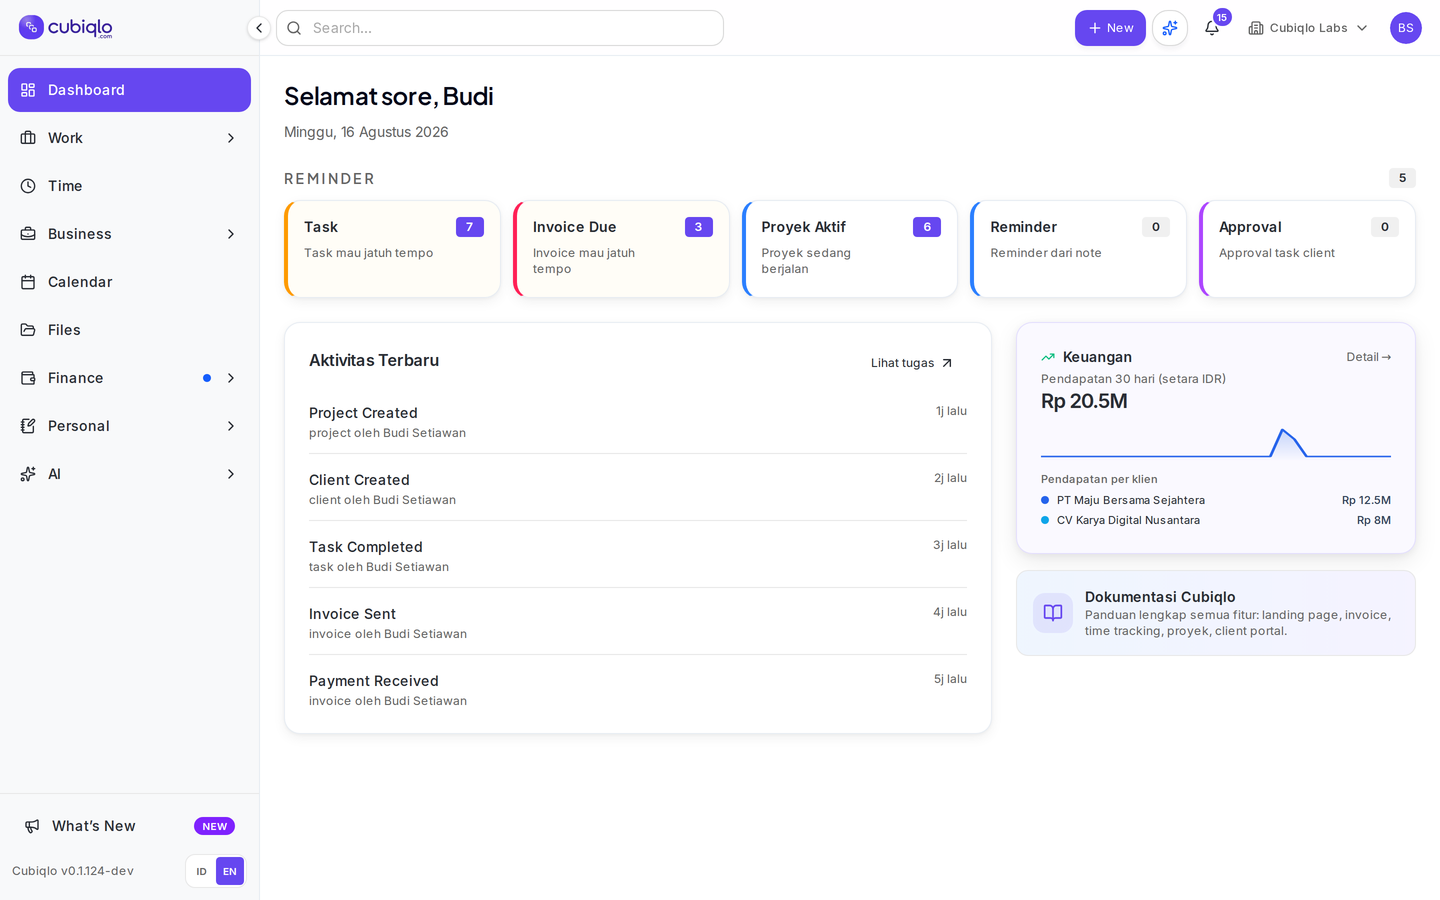
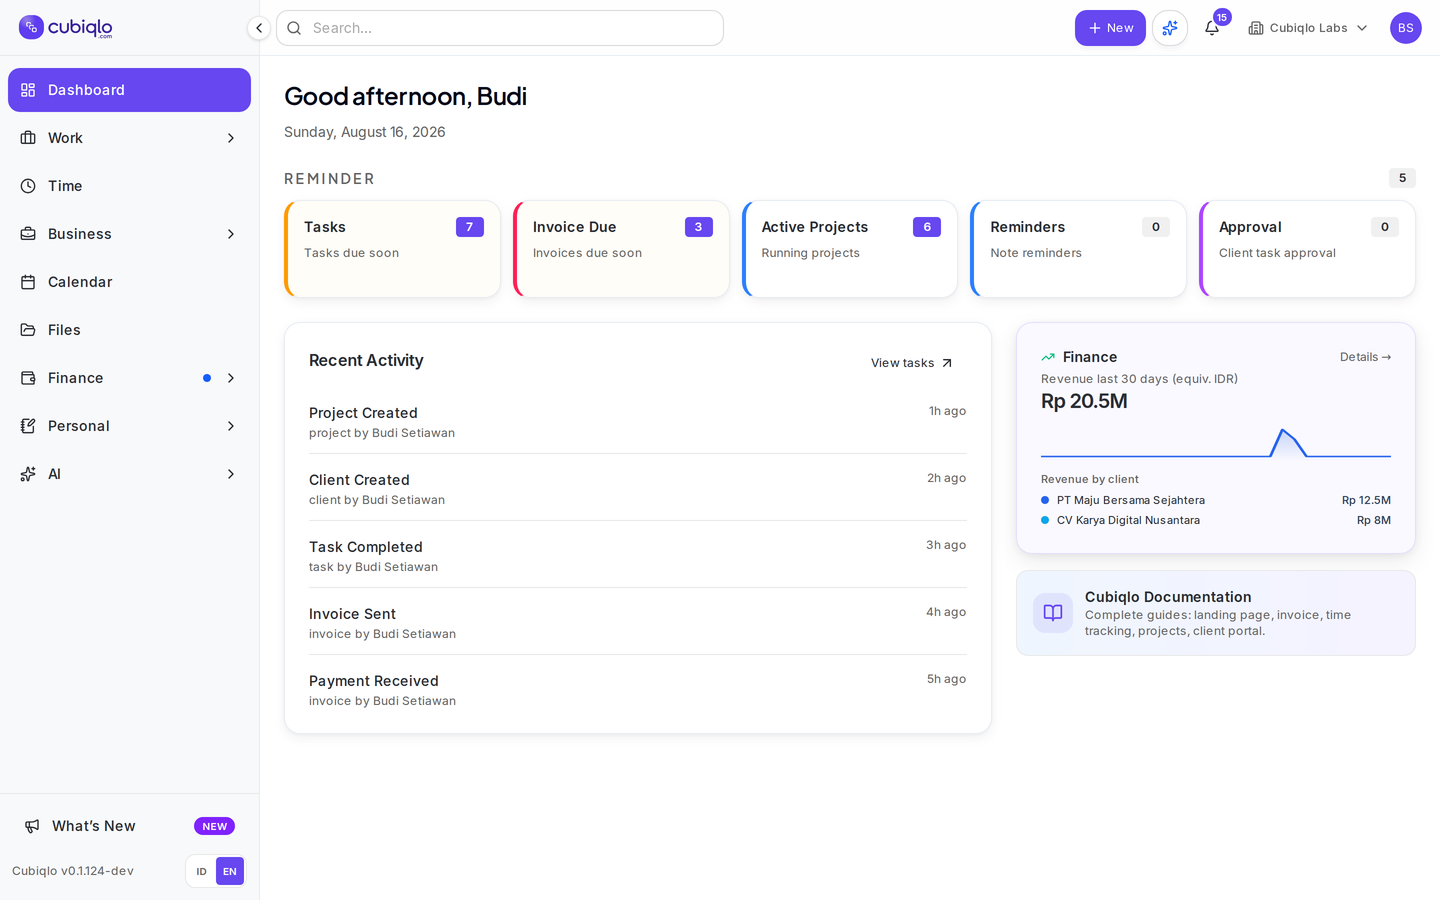
feat(landing): pricing yearly below monthly (no total) + English screenshots
- Pricing: 'Billed yearly' moved below monthly price, remove yearly total
- Screenshots regenerated in English (default lang en): dashboard & tasks
- Dashboard shows Cubiqlo Labs, Budi, Rp 20.5M revenue

diff --git a/src/app/page.tsx b/src/app/page.tsx
@@ -272,7 +272,7 @@ export default async function HomePage() {
         <section id="pricing" className="bg-white px-4 py-20 sm:px-6 sm:py-28 lg:px-8">
           <div className="mx-auto max-w-7xl">
             <div className="mx-auto max-w-3xl text-center"><p className="text-xs font-semibold uppercase tracking-[.2em] text-[#6647F0]">{tx("Harga transparan", "Transparent pricing")}</p><h2 className="mt-4 text-3xl font-semibold tracking-[-.03em] sm:text-5xl">{tx("Mulai gratis. Upgrade saat klien bertambah.", "Start free. Upgrade as your client work grows.")}</h2><p className="mt-5 text-lg text-slate-600">{tx("Tidak perlu kartu kredit untuk mulai.", "No credit card required.")}</p></div>
-            <div className="mt-12 grid gap-5 lg:grid-cols-3">{pricing.map(plan => <div key={plan.name} className={`relative flex flex-col rounded-3xl p-6 ${plan.featured ? "bg-[#292D34] text-white shadow-[0_24px_70px_rgba(41,45,52,.22)] lg:-translate-y-3" : "bg-[#FBFAFE] ring-1 ring-slate-200"}`}>{plan.featured && <span className="absolute right-5 top-5 rounded-full bg-[#FF7657] px-3 py-1 text-xs font-semibold">{tx("Paling populer", "Most popular")}</span>}<p className={`text-sm font-semibold ${plan.featured ? "text-violet-300" : "text-[#6647F0]"}`}>{tx(plan.name, plan.name === "Free" ? "Free" : plan.name)}</p><p className={`mt-3 text-sm ${plan.featured ? "text-slate-300" : "text-slate-600"}`}>{plan.name === "Free" ? tx("Coba dulu untuk client work kecil.", "Try it for small client work.") : plan.name === "Solo" ? tx("Untuk freelancer yang mulai serius.", "For freelancers getting serious.") : tx("Untuk tim kecil yang kerja bareng.", "For small teams working together.")}</p><div className="mt-7 flex items-end gap-2"><strong className="text-3xl tracking-[-.03em]">{plan.price}</strong><span className={`pb-1 text-xs ${plan.featured ? "text-slate-400" : "text-slate-500"}`}>{plan.name === "Solo" ? tx("Rp 900.000/tahun", "Rp 900.000/year") : plan.name === "Team" ? tx("Rp 1.980.000/tahun", "Rp 1.980.000/year") : tx(plan.suffix, "forever")}</span></div><div className={`my-6 h-px ${plan.featured ? "bg-white/10" : "bg-slate-200"}`} /><div className="flex-1 space-y-3">{plan.items.map(item => <div key={item} className={`flex items-center gap-2 text-sm ${plan.featured ? "text-slate-200" : "text-slate-700"}`}><Check className={`h-4 w-4 ${plan.featured ? "text-emerald-400" : "text-[#6647F0]"}`} />{tx(item, landingEn[item] ?? item)}</div>)}</div><Button asChild className={`mt-8 h-11 rounded-xl ${plan.featured ? "bg-white text-[#292D34] hover:bg-violet-50" : "bg-[#292D34] text-white hover:bg-[#17191E]"}`}><Link href="/signup">{tx(plan.cta, plan.name === "Free" ? "Start free" : `Choose ${plan.name}`)}<ArrowRight className="ml-1 inline h-4 w-4" /></Link></Button></div>)}</div>
+            <div className="mt-12 grid gap-5 lg:grid-cols-3">{pricing.map(plan => <div key={plan.name} className={`relative flex flex-col rounded-3xl p-6 ${plan.featured ? "bg-[#292D34] text-white shadow-[0_24px_70px_rgba(41,45,52,.22)] lg:-translate-y-3" : "bg-[#FBFAFE] ring-1 ring-slate-200"}`}>{plan.featured && <span className="absolute right-5 top-5 rounded-full bg-[#FF7657] px-3 py-1 text-xs font-semibold">{tx("Paling populer", "Most popular")}</span>}<p className={`text-sm font-semibold ${plan.featured ? "text-violet-300" : "text-[#6647F0]"}`}>{tx(plan.name, plan.name === "Free" ? "Free" : plan.name)}</p><p className={`mt-3 text-sm ${plan.featured ? "text-slate-300" : "text-slate-600"}`}>{plan.name === "Free" ? tx("Coba dulu untuk client work kecil.", "Try it for small client work.") : plan.name === "Solo" ? tx("Untuk freelancer yang mulai serius.", "For freelancers getting serious.") : tx("Untuk tim kecil yang kerja bareng.", "For small teams working together.")}</p><div className="mt-7"><strong className="block text-3xl tracking-[-.03em]">{plan.price}</strong><span className={`mt-1 block text-xs ${plan.featured ? "text-slate-400" : "text-slate-500"}`}>{plan.name === "Solo" || plan.name === "Team" ? tx("Ditagih tahunan", "Billed yearly") : tx(plan.suffix, "forever")}</span></div><div className={`my-6 h-px ${plan.featured ? "bg-white/10" : "bg-slate-200"}`} /><div className="flex-1 space-y-3">{plan.items.map(item => <div key={item} className={`flex items-center gap-2 text-sm ${plan.featured ? "text-slate-200" : "text-slate-700"}`}><Check className={`h-4 w-4 ${plan.featured ? "text-emerald-400" : "text-[#6647F0]"}`} />{tx(item, landingEn[item] ?? item)}</div>)}</div><Button asChild className={`mt-8 h-11 rounded-xl ${plan.featured ? "bg-white text-[#292D34] hover:bg-violet-50" : "bg-[#292D34] text-white hover:bg-[#17191E]"}`}><Link href="/signup">{tx(plan.cta, plan.name === "Free" ? "Start free" : `Choose ${plan.name}`)}<ArrowRight className="ml-1 inline h-4 w-4" /></Link></Button></div>)}</div>
           </div>
         </section>
 
